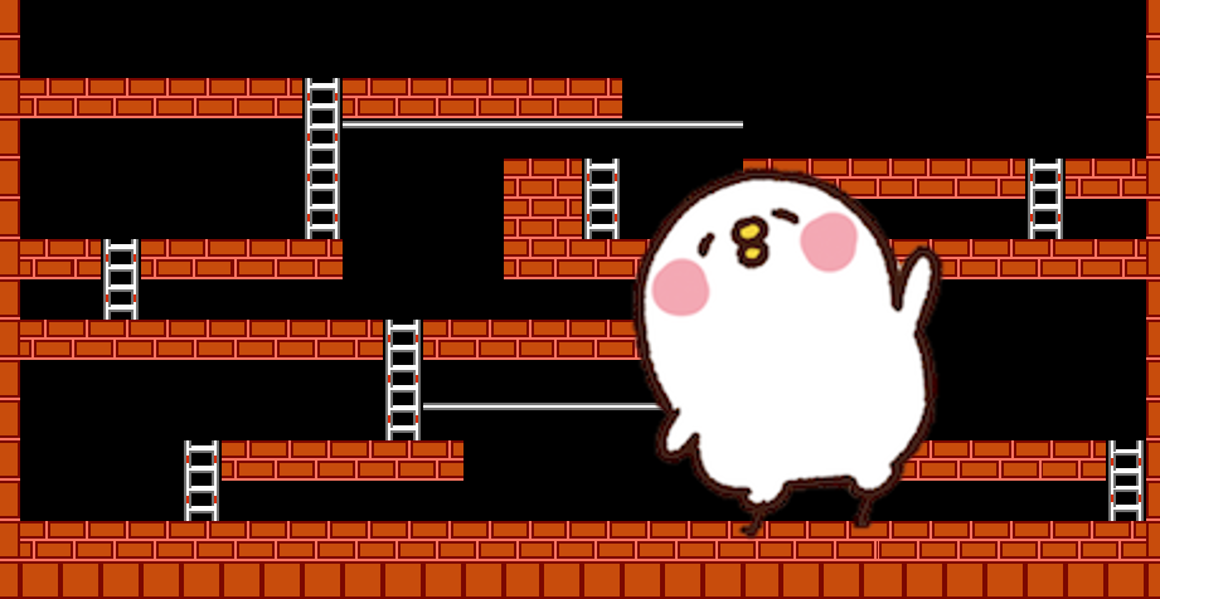
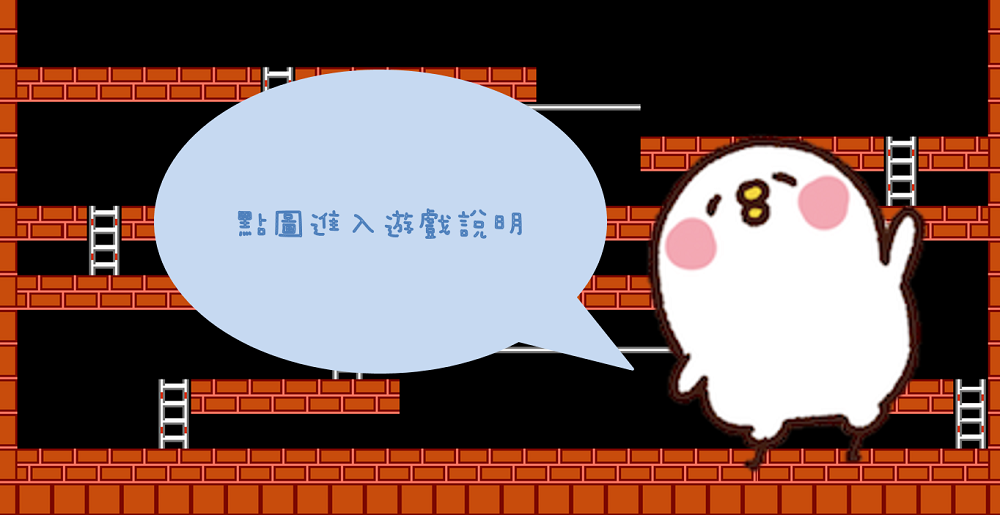
淡入淡出

diff --git a/index.html b/index.html
@@ -40,6 +40,7 @@
     <link rel="stylesheet" type="text/css" href="assets/extras/owl/owl.theme.css">
     <link rel="stylesheet" type="text/css" href="assets/extras/animate.css">
     <link rel="stylesheet" type="text/css" href="assets/extras/normalize.css">
+
     <!-- Color CSS Styles-->
     <link rel="stylesheet" type="text/css" href="assets/css/colors/red.css" media="screen">
     <!-- HTML5 Shim and Respond.js IE8 support of HTML5 elements and media queries-->
@@ -116,9 +117,13 @@
   </header>
     <!-- Header-wrap Section End-->
     <section class="classic-blog-section section" style="padding-top: 100px;background:url(/images/背景.JPG);"">
-    
-            <div class="container" style="width: 100%"  >
-              <a href="遊戲說明.html" ><img src="/images/homepage1.png" alt="" style="width: 100%"></a>
+            <div class="container" style="width: 100%; height: 500px"  valign="center" >
+              <a href="遊戲說明.html">
+              <div id="imgs">
+                <div class="bg" id="bg1" ></div>
+                <div id="bg2" class="bg"></div>
+              </div>
+            </a>
             </div>
             
   </section>
@@ -218,7 +223,7 @@
     <script src="assets/js/jquery.appear.js"></script>
     <script src="assets/js/form-validator.min.js"></script>
     <script src="assets/js/contact-form-script.min.js"></script>
-    <script src="assets/js/main.js"></script>
+    <script src="/js/main.js"></script>
     <!-- Placed at the end of the document so the pages load faster-->
     <script src="https://code.jquery.com/jquery-3.2.1.slim.min.js" integrity="sha384-KJ3o2DKtIkvYIK3UENzmM7KCkRr/rE9/Qpg6aAZGJwFDMVNA/GpGFF93hXpG5KkN" crossorigin="anonymous"></script>
     <script>window.jQuery || document.write('<script src="../../../../assets/js/vendor/jquery-slim.min.js"><\\/script>')</script>

diff --git a/assets/css/main.css b/assets/css/main.css
@@ -3728,6 +3728,41 @@ i.icon-lg {
 	width:275px;margin-right:70px;
 	display:inline-block;vertical-align:top
 	}
+
+
+
+
+
+  .bg {
+  position: absolute;
+  left: 0;
+  top: 0;
+  width: 100%;
+  height: 100%;
+  -webkit-transition: opacity 2s linear;
+  -moz-transition: opacity 2s linear;
+  -o-transition: opacity 2s linear;
+  transition: opacity 2s linear;
+  opacity:0;
+
+}
+
+#bg1 {
+  background: url(/images/homepage1.png) no-repeat;
+  background-size: cover;
+  
+}
+
+#bg2 {
+  background: url(/images/homepage2.png) no-repeat;
+  background-size: cover;
+}
+
+.fadein {
+  opacity: 100;
+  filter: alpha(opacity=100);
+}
+
 /*=================================================
     Google Facebook Signup Bottons
 ===================================================*/

diff --git a/assets/admin/assets/js/toolkit.js b/assets/admin/assets/js/toolkit.js
@@ -5275,3 +5275,29 @@ var Tab = function ($) {
   });
 })(window.jQuery);
 }();
+
+
+function fadeIn(e) {
+  e.className = "bg fadein"
+};
+
+function fadeOut(e) {
+  e.className = "bg"
+};
+//申明图片数组中当前的轮播图片
+cur_img = document.getElementById("imgs").children.length - 1;
+//图片轮播函数
+function turnImgs(imgs) {
+    var imgs = document.getElementById("imgs").children;
+    if (cur_img == 0) {
+      fadeOut(imgs[cur_img]);
+      cur_img = imgs.length - 1;
+      fadeIn(imgs[cur_img]);
+    } else {
+      fadeOut(imgs[cur_img]);
+      fadeIn(imgs[cur_img - 1]);
+      cur_img--;
+    }
+  }
+  //设置轮播间隔
+setInterval(turnImgs, 3000);

diff --git a/js/main.js b/js/main.js
@@ -1,0 +1,24 @@
+function fadeIn(e) {
+  e.className = "bg fadein"
+};
+
+function fadeOut(e) {
+  e.className = "bg"
+};
+//申明图片数组中当前的轮播图片
+cur_img = document.getElementById("imgs").children.length - 1;
+//图片轮播函数
+function turnImgs(imgs) {
+    var imgs = document.getElementById("imgs").children;
+    if (cur_img == 0) {
+      fadeOut(imgs[cur_img]);
+      cur_img = imgs.length - 1;
+      fadeIn(imgs[cur_img]);
+    } else {
+      fadeOut(imgs[cur_img]);
+      fadeIn(imgs[cur_img - 1]);
+      cur_img--;
+    }
+  }
+  //设置轮播间隔
+setInterval(turnImgs, 3000);

diff --git a/assets/admin/assets/css/toolkit-light.css b/assets/admin/assets/css/toolkit-light.css
@@ -9336,3 +9336,5 @@ canvas {
 
 .btn-square {
   border-radius: 0; }
+
+
